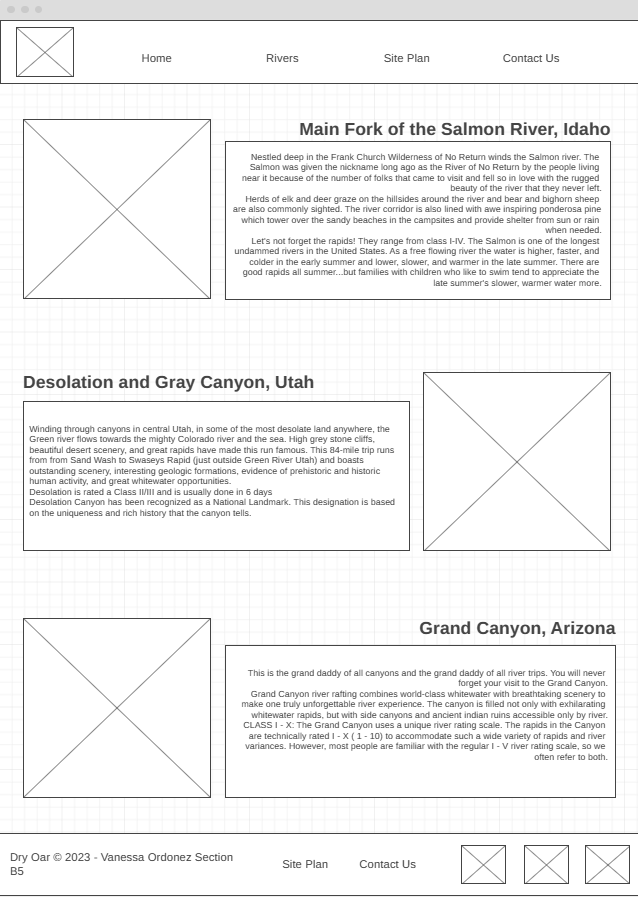
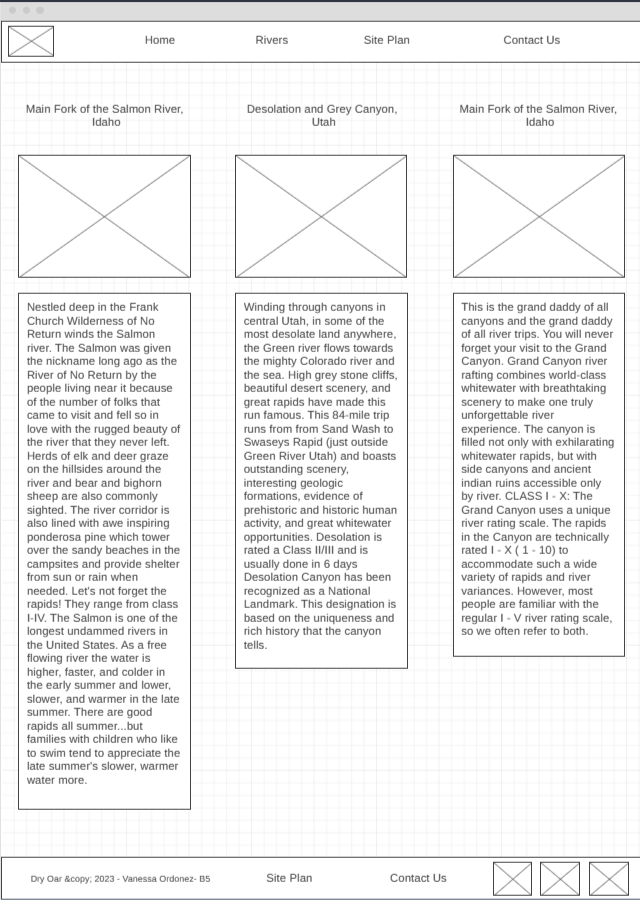
created css for page 2 of wwr

diff --git a/wwr/rivers.html b/wwr/rivers.html
@@ -1,0 +1,82 @@
+<!DOCTYPE html>
+<html lang="en">
+<head>
+    <meta charset="UTF-8">
+    <meta http-equiv="X-UA-Compatible" content="IE=edge">
+    <meta name="viewport" content="width=device-width, initial-scale=1.0">
+    <title>Dry Oar Boating | Rivers</title>
+    <link rel="stylesheet" href="styles/style.css">
+</head>
+
+<body>
+  <div id="content">
+  <header>
+    <a id="logo_link" href ="index.html">
+      <img class="logo" src="images/logo.png" alt="Dry Oar Logo">
+    </a>
+    <nav>
+      <a href="index.html">Home</a>
+      <a href= "#">Rivers </a>
+      <a href= "site-plan-rafting.html">Site Plan</a>
+      <a href= "contactus.html">Contact Us</a>
+    </nav>
+  </header>
+
+  <main class="rivers-grid">
+    <section class="idaho">
+      <h2>Main Fork of the Salmon River, Idaho</h2>
+      <img class="img-box" src="images/river-narrow.jpg" alt="narrow river">
+      <div class="text-box">  
+        <p class="text"> Nestled deep in the Frank Church Wilderness of No Return winds the Salmon river. The Salmon was given the nickname long ago as the River of No Return by the people living near it because of the number of folks that came to visit and fell so in love with the rugged beauty of the river that they never left.
+
+          Herds of elk and deer graze on the hillsides around the river and bear and bighorn sheep are also commonly sighted. The river corridor is also lined with awe inspiring ponderosa pine which tower over the sandy beaches in the campsites and provide shelter from sun or rain when needed.
+          
+          Let's not forget the rapids! They range from class I-IV. The Salmon is one of the longest undammed rivers in the United States. As a free flowing river the water is higher, faster, and colder in the early summer and lower, slower, and warmer in the late summer. There are good rapids all summer...but families with children who like to swim tend to appreciate the late summer's slower, warmer water more. </p>
+      </div>
+    </section>
+    <section class="utah">
+      <h2>Desolation and Grey Canyon, Utah</h2>
+      <img class="img-box" src="images/rafting58_600.jpg" alt="utah river">
+      <div class="text-box">  
+        <p class="text"> Winding through canyons in central Utah, in some of the most desolate land anywhere, the Green river flows towards the mighty Colorado river and the sea. High grey stone cliffs, beautiful desert scenery, and great rapids have made this run famous. This 84-mile trip runs from from Sand Wash to Swaseys Rapid (just outside Green River Utah) and boasts outstanding scenery, interesting geologic formations, evidence of prehistoric and historic human activity, and great whitewater opportunities.
+
+          Desolation is rated a Class II/III and is usually done in 6 days
+          
+          Desolation Canyon has been recognized as a National Landmark.  This designation is based on the uniqueness and rich history that the canyon tells. </p>
+      </div>
+    </section>
+    <section class="arizona">
+      <h2>Main Fork of the Salmon River, Idaho</h2>
+      <img class="img-box" src="images/littlecolorado.jpg" alt="arizona-row river">
+      <div class="text-box">  
+        <p class="text"> This is the grand daddy of all canyons and the grand daddy of all river trips. You will never forget your visit to the Grand Canyon.
+
+          Grand Canyon river rafting combines world-class whitewater with breathtaking scenery to make one truly unforgettable river experience. The canyon is filled not only with exhilarating whitewater rapids, but with side canyons and ancient indian ruins accessible only by river.
+          
+          CLASS I - X: The Grand Canyon uses a unique river rating scale. The rapids in the Canyon are technically rated I - X ( 1 - 10) to accommodate such a wide variety of rapids and river variances. However, most people are familiar with the regular I - V river rating scale, so we often refer to both. </p>
+      </div>
+    </section>
+  </main>
+
+  
+ 
+
+  <footer>
+    <p> Dry Oar &copy; 2023 - Vanessa Ordonez Section B5</p>
+    <p><a href="site-plan-rafting.html">Site Plan</a></p>
+    <p><a href="contactus.html">Contact Us</a></p>
+    <div class="social">
+      <a href="https://facebook.com" target="_blank">
+        <img src="images/facebook.png" alt="fb icon">
+      </a>
+      <a href="https://twitter.com" target="_blank">
+        <img src="images/twitter.png" alt="twitter icon">
+      </a>
+      <a href="https://instagram.com" target="_blank">
+        <img src="images/instagram.png" alt="instagram icon">
+      </a>
+    </div>
+  </footer>
+  </div>
+  </body>
+</html>

diff --git a/wwr/styles/style.css b/wwr/styles/style.css
@@ -187,11 +187,72 @@ footer a{
     text-decoration: none;
 }
 footer a:hover{
-    color: #FEC000
+    color: #3BC14A
 }
 footer .social img{
     padding-top: 15px;
 }
+
+/*CSS for Sub Page Rivers*/
+.rivers-grid{
+    display: grid;
+    grid-template-columns: 1fr 1fr 1fr 1fr 1fr 1fr 1fr 1fr 1fr 1fr;
+    }
+
+.idaho-row{
+    grid-column: 1/4;
+    
+}
+
+.utah-row{
+    grid-column:5/7;
+}
+
+.arizona-row{
+    grid-column:8/10;
+}
+
+.img-box{
+    margin: 20px;
+    width: 500px;
+    height: 400px;
+    border: 10px solid #4DA167;
+    transition: transform .5s;
+    box-shadow: 5px 5px 10px grey
+}
+
+h2{
+    border: 50px;
+    padding: 50px
+}
+.text-box{
+    grid-column: 2/4;
+}
+.text{
+        justify-content: center;
+}
+
+.img-box-right{
+    grid-column: 3/4;
+}
+
+.text-box-right, .text-right{
+    grid-column: 1/3;
+} 
+
+.text{
+    color:white;
+    margin: 20px;
+    padding: 30px;
+    font-size: 1em;
+}
+
+.text-box{
+    margin: 20px;
+    background-color: #4D5057;
+}
+
+
 
 /*This could be read as follows: "If the max width of the screen gets smaller than 900px, then use this CSS instead of what you may have seen above" for these selectors.*/
 @media screen and (max-width: 900px) { 

diff --git a/challenges/week09/w09.html b/challenges/week09/w09.html
@@ -1,0 +1,29 @@
+<!DOCTYPE html>
+<html lang="en">
+<head>
+    <meta charset="UTF-8">
+    <meta http-equiv="X-UA-Compatible" content="IE=edge">
+    <meta name="viewport" content="width=device-width, initial-scale=1.0">
+    <title>Challenge week 09</title>
+    <link rel="stylesheet" href="styles/w09.css">
+</head>
+<div>
+    <body>
+        <header>
+        <img src="images/w09_ice_img.jpg" alt="Photo of a bridge">
+        </header>
+        <h1>3 weeks ago </h1>
+        <h2>Post Three</h2>
+        <p>This would be some text to go here and tell you about this awesome article that they should definitely read. This would be some text to go here and tell you about this awesome article that they should definitely read. This would be some text to go here. </p>
+
+    </body>
+    <footer>
+        <div class="box1"></div>
+        <div class="box2"></div>
+        <div class="box3"></div>
+        <div class="text1">5m READ</div>
+        <div class="text2">2031 VIEWS</div>
+        <div class="text3">15 COMMENTS</div>
+    </footer>
+</div>
+</html>

diff --git a/wwr/site-plan-rafting.html b/wwr/site-plan-rafting.html
@@ -54,10 +54,10 @@
       </tr>
       <!-- Replace the numbers in the boxes below with your hex color codes. Then switch to the site-plan.css file and change your colors there as well. -->
       <tr>
-        <td class="primary">#396D90</td>
-        <td class="secondary">#FEC000</td>
-        <td class="accent1">#2E512E</td>
-        <td class="accent2">#161922</td>
+        <td class="primary">#4D5057</td>
+        <td class="secondary">4E6E5D</td>
+        <td class="accent1">#4Da167</td>
+        <td class="accent2">#3BC14A</td>
       </tr>
     </table>
 

diff --git a/challenges/week09/styles/w09.css b/challenges/week09/styles/w09.css
@@ -1,0 +1,32 @@
+div{
+    height: 20vh;
+}
+
+body{
+    background-color: white;
+}
+
+img{
+    margin:200px; 
+    border-radius: 10px;
+}
+
+h1{
+    margin: 30px;
+    font-size: 20px;
+    color: rgb(82, 82, 187)
+}
+
+h2{
+    font-size: 40px;
+    margin: 0;
+}
+
+p{
+    max-width: 600px;
+    text-align: center;
+    margin: 100px;
+}
+
+
+

diff --git a/wwr/styles/site-plan-rafting.css b/wwr/styles/site-plan-rafting.css
@@ -7,7 +7,7 @@ Fonts are separated by a & */
   /* change the values below to your colors from your palette */
   --primary-color: #4D5057;
   --secondary-color: #4E6E5D;
-  --accent1-color: #4Da167;
+  --accent1-color: #4DA167;
   --accent2-color: #3BC14A;
   /* change the values below to your chosen font(s) */
   --heading-font: "New Tegomin";

diff --git a/wwr/index.html b/wwr/index.html
@@ -16,7 +16,7 @@
     </a>
     <nav>
       <a href="index.html">Home</a>
-      <a href= "#">Page 2 </a>
+      <a href= "#">Rivers </a>
       <a href= "site-plan-rafting.html">Site Plan</a>
       <a href= "contactus.html">Contact Us</a>
     </nav>
